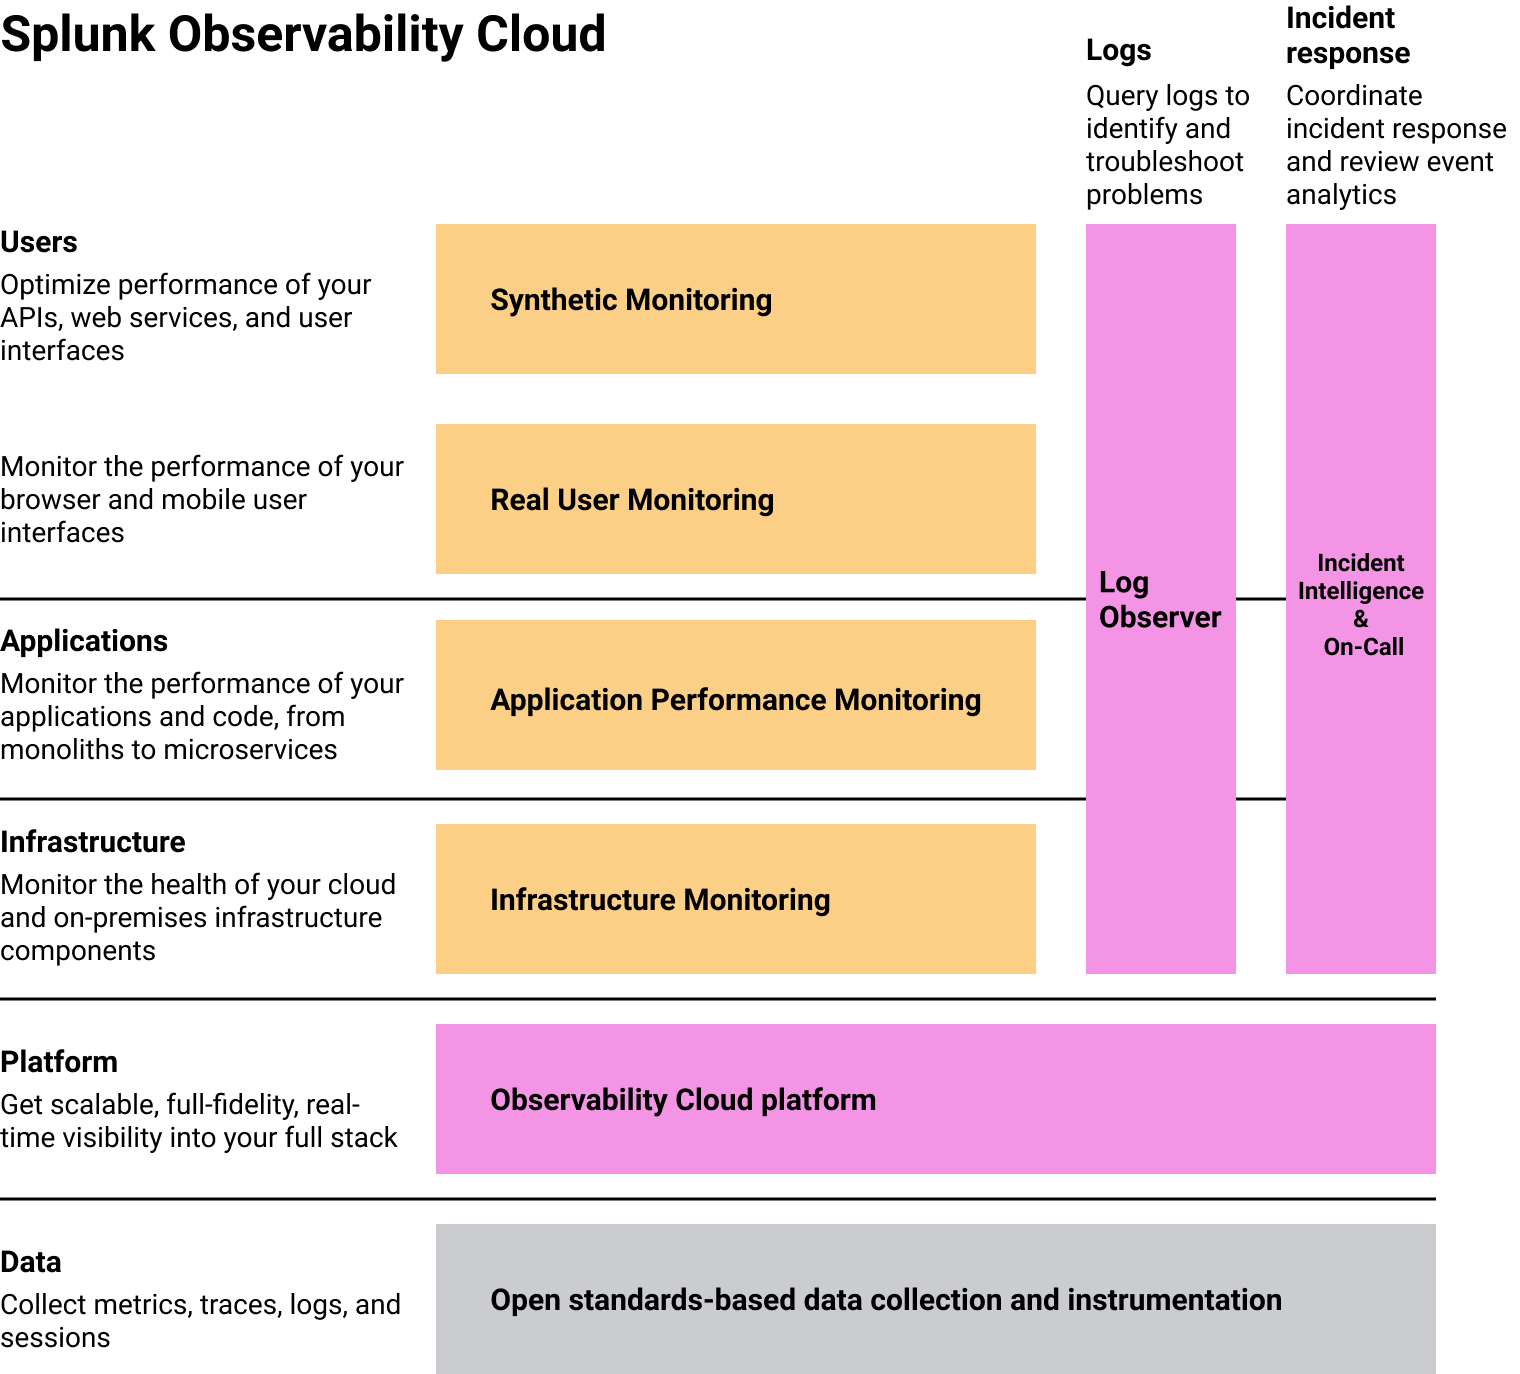
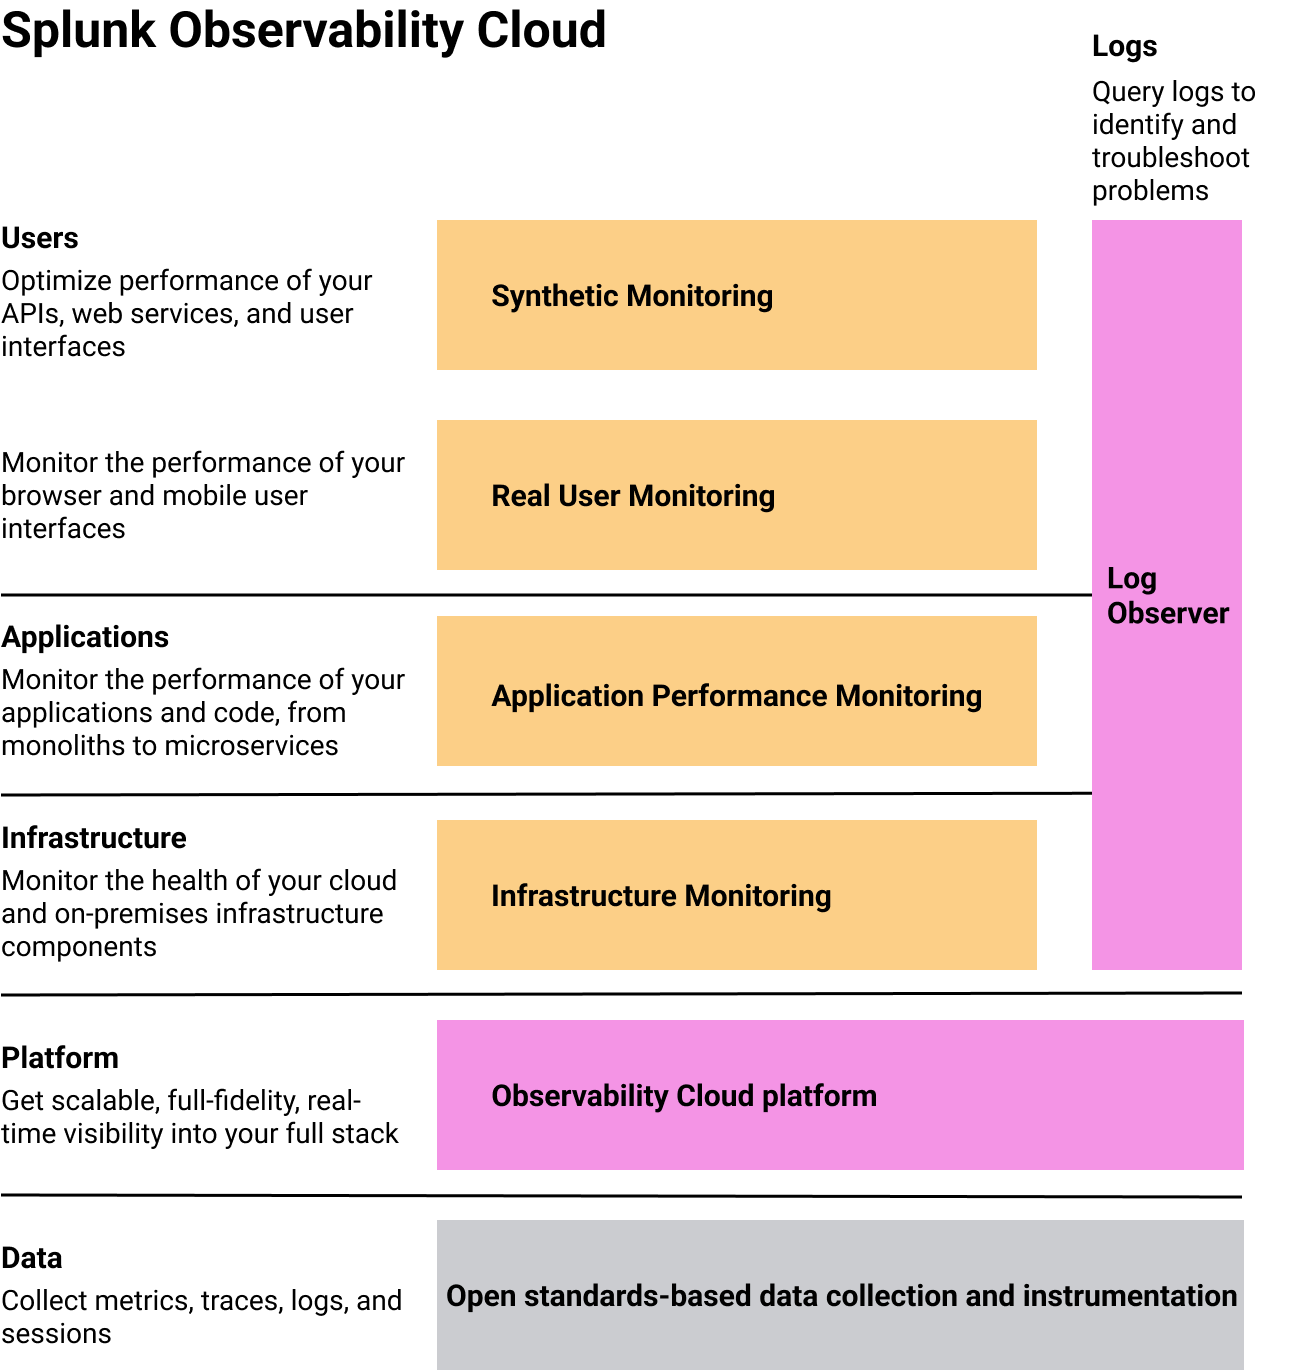
remove II from non-II topics

Changed region(s): [[0.0, 0.0, 0.9907, 1.0], [0.0, 0.1533, 0.5882, 0.2759], [0.0, 0.0, 0.4644, 0.0613]]

diff --git a/get-started/welcome.rst b/get-started/welcome.rst
@@ -23,7 +23,7 @@ Splunk Observability Cloud's suite of products and features allow you to quickly
 
 The following diagram provides a high-level view of how each Observability Cloud product plays its part to provide you with full-stack observability:
 
-.. source in figma: https://www.figma.com/file/SspISKtNyGovP50c1FA35z/o11y-cloud-product-structure?node-id=146%3A47
+.. source in figma: https://www.figma.com/file/BpVleOaAneD4KfivNDfTpn/Untitled?type=design&node-id=1-2&mode=design&t=S1ZYBRt7mgV4C7Nm-0
 
 .. image:: /_images/get-started/o11y-cloud-structure.png
   :width: 100%
@@ -124,15 +124,6 @@ Splunk On-Call
 Splunk On-Call incident response software aligns log management, monitoring, chat tools, and more, for a single-pane of glass into system health. Splunk On-Call automates delivery of alerts to get the right alert, to the right person, at the right time.
 
 For more information, see the :new-page:`Splunk On-Call documentation <https://help.victorops.com/>`.
-
-.. _welcome-incident-intelligence:
-
-Splunk Incident Intelligence
-===============================
-
-Splunk Incident Intelligence incident response software lets site reliability engineers (SREs) in IT and DevOps resolve outages with alert correlation, incident response, and on-call routing. 
-
-For more information, see the :ref:`ii-get-started-incident-intelligence`.
 
 
 .. _welcome-mobile:
